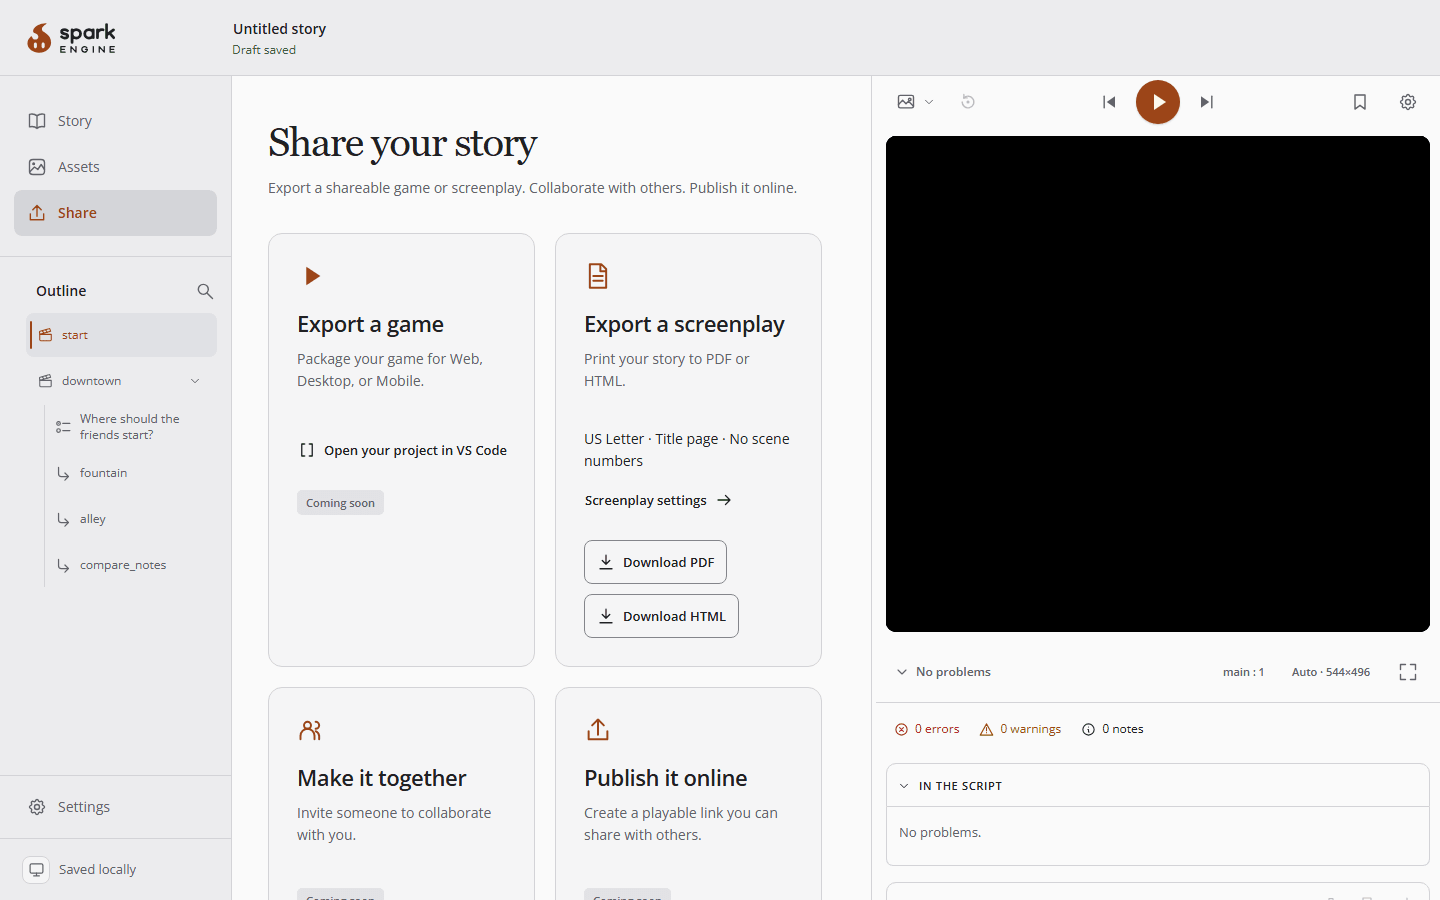
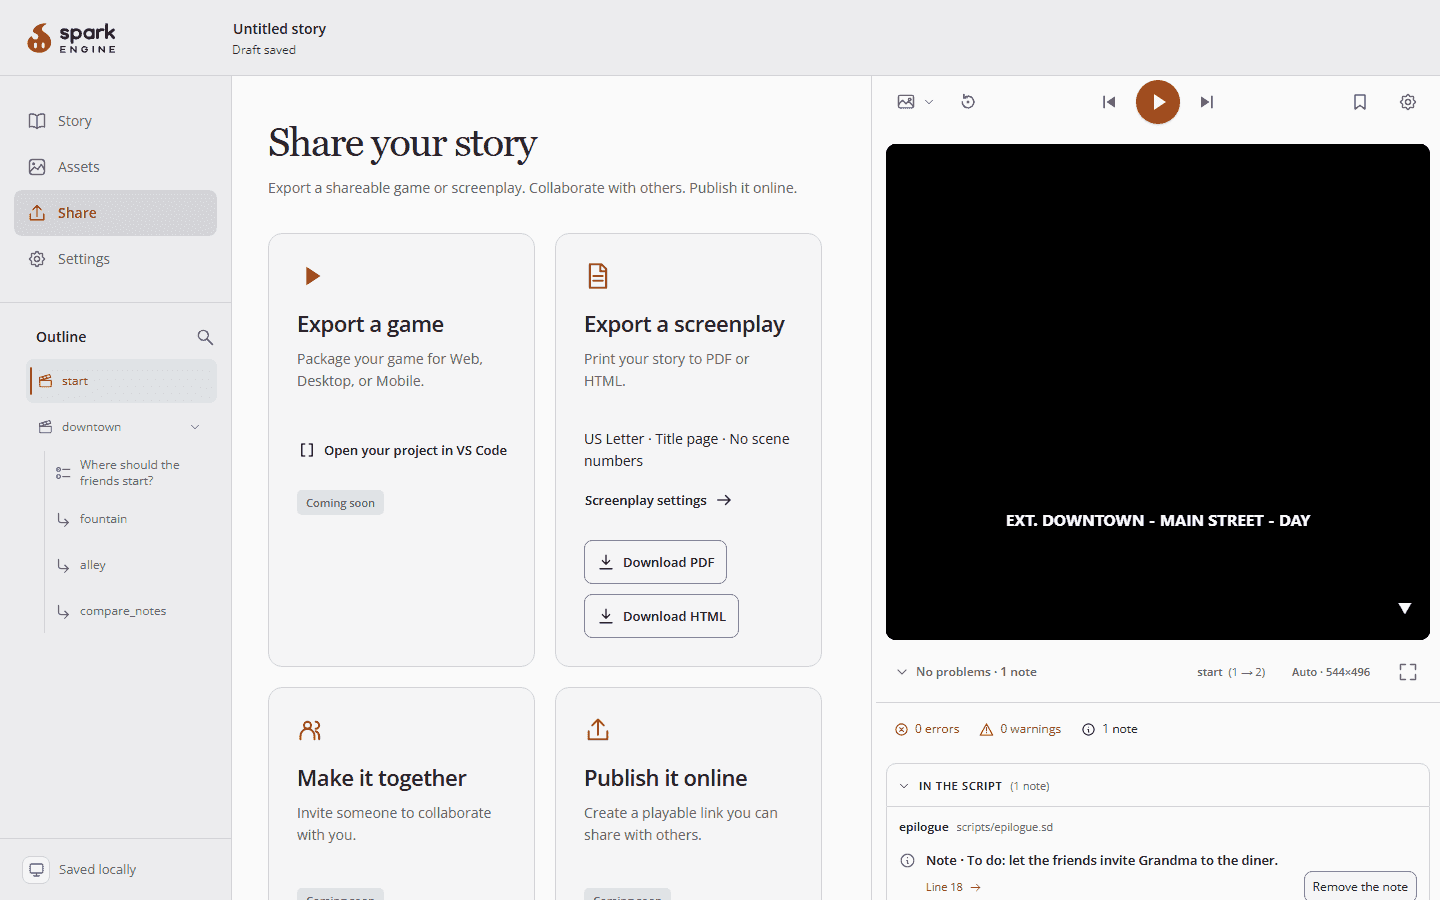
feat(web-editor): put Settings with Story, Assets and Share in the rail (I-2763)
Settings becomes the fourth tab of the rail's top group, under Share, at
every rail width, so the arrow keys move through the four as one group and
the separate Settings nav and its border at the rail's foot are gone. The
group's accessible name now reads "Story, Assets, Share and Settings". The
phone's bottom bar already held Settings and is unchanged.

The Writing tools menu's Sparkdown guide and Keyboard shortcuts rows lose
their descriptions and show their labels only; the three name rows keep
theirs.

The rendered tests, the architecture and design docs and the Web Editor
chapter of the guide follow, with its Story, Scripts, Share and Settings
pictures at 1440 re-shot.

diff --git a/impower-dev/test/components/assetsPrototypeGeometry.test.ts b/impower-dev/test/components/assetsPrototypeGeometry.test.ts
@@ -528,25 +528,29 @@ describe("The Assets page's and app frame's last differences from the Folio prot
     }
   });
 
-  it.each(THEMES)("at 1440 in %s the rail's Settings entry sits just above the footer, the same size as Story, Assets and Share", async (theme) => {
+  it.each(THEMES)("at 1440 in %s the rail's Settings entry is the fourth of the top group, the same size as Story, Assets and Share, and the outline meets the footer", async (theme) => {
     await setMedia((query) => query.includes("701px") || query.includes("1101px"));
     try {
       const measured = await inChromium(rail(false), { width: 1440, theme }, () => {
         const tabs = [...document.querySelectorAll<HTMLElement>('[role="tab"]')];
         const footer = document.querySelector("aside > div:last-child")!.getBoundingClientRect();
-        const settings = tabs[3]!.closest("nav")!.getBoundingClientRect();
+        const outline = document.querySelector("aside > [data-outline]")!.getBoundingClientRect();
         return {
           labels: tabs.map((tab) => tab.textContent!.trim().slice(0, tab.textContent!.trim().length / 2)),
           boxes: tabs.map((tab) => {
             const box = tab.getBoundingClientRect();
             return [box.x, box.width, box.height];
           }),
-          settingsMeetsFooter: settings.bottom === footer.top,
+          gaps: tabs.slice(1).map((tab, i) => tab.getBoundingClientRect().top - tabs[i]!.getBoundingClientRect().bottom),
+          navs: [...document.querySelectorAll("aside nav")].filter((nav) => nav.querySelector('[role="tab"]')).map((nav) => [nav.getAttribute("aria-label"), nav.querySelectorAll('[role="tab"]').length]),
+          outlineMeetsFooter: outline.bottom === footer.top,
         };
       });
       expect(measured.labels).toEqual(["Story", "Assets", "Share", "Settings"]);
       expect(new Set(measured.boxes.map((box) => box.join()))).toHaveProperty("size", 1);
-      expect(measured.settingsMeetsFooter).toBe(true);
+      expect(new Set(measured.gaps)).toHaveProperty("size", 1);
+      expect(measured.navs).toEqual([["Story, Assets, Share and Settings", 4]]);
+      expect(measured.outlineMeetsFooter).toBe(true);
     } finally {
       await setMedia(() => false);
     }

diff --git a/impower-dev/src/modules/spark-editor/components/desktop-shell/ShellRail.tsx b/impower-dev/src/modules/spark-editor/components/desktop-shell/ShellRail.tsx
@@ -31,12 +31,12 @@ export default function ShellRail() {
       class="flex h-full min-h-0 flex-col border-r border-edge bg-bg"
     >
       <nav
-        aria-label="Story, Assets and Share"
+        aria-label="Story, Assets, Share and Settings"
         class="flex-none border-b border-edge px-[14px] pt-[22px] pb-5 in-data-[layout=compact]:px-[10px] in-data-[layout=compact]:pt-4 group-data-[sidebar=collapsed]/sidebar:px-[5px] group-data-[sidebar=collapsed]/sidebar:pt-3.5"
       >
         <Tabs
           panel={SCREEN_PANEL_ID}
-          value={settings ? "" : pane}
+          value={settings ? SETTINGS_TAB : pane}
           onChange={onChange}
           variant="rail"
           vertical
@@ -52,29 +52,14 @@ export default function ShellRail() {
           <Tab value="share" icon={ShareIcon}>
             Share
           </Tab>
-        </Tabs>
-      </nav>
-      <div data-outline class="flex min-h-0 flex-1 flex-col">
-        {settings ? <SettingsIndex /> : <Outline />}
-      </div>
-      <nav
-        aria-label="Settings"
-        class="flex-none border-t border-edge px-[14px] py-2 in-data-[layout=compact]:px-[10px] group-data-[sidebar=collapsed]/sidebar:px-[5px]"
-      >
-        <Tabs
-          panel={SCREEN_PANEL_ID}
-          value={settings ? SETTINGS_TAB : ""}
-          onChange={onChange}
-          variant="rail"
-          vertical
-          iconLayout="beside"
-          indicator="none"
-        >
           <Tab value={SETTINGS_TAB} icon={CogIcon}>
             Settings
           </Tab>
         </Tabs>
       </nav>
+      <div data-outline class="flex min-h-0 flex-1 flex-col">
+        {settings ? <SettingsIndex /> : <Outline />}
+      </div>
       <div class="flex h-[62px] flex-none items-center border-t compact:h-[52px] border-edge px-[14px] group-data-[sidebar=collapsed]/sidebar:justify-center group-data-[sidebar=collapsed]/sidebar:px-0">
         <AppMenu />
       </div>

diff --git a/impower-dev/test/components/writingTools.test.ts b/impower-dev/test/components/writingTools.test.ts
@@ -165,8 +165,8 @@ describe("Writing tools menu", () => {
     await open();
     expect(panel()?.querySelector("h2")?.textContent).toBe("Writing tools");
     expect(rows().map((b) => b.textContent)).toEqual([
-      "Sparkdown guide A quick reference while you write.",
-      "Keyboard shortcuts For a connected keyboard.",
+      "Sparkdown guide",
+      "Keyboard shortcuts",
       "Find and replace",
     ]);
     expect(document.activeElement?.getAttribute("aria-label")).toBe(
@@ -215,8 +215,8 @@ describe("Writing tools menu", () => {
     calls.name = new Promise((r) => (resolve = r));
     await open();
     expect(rows().map((b) => b.textContent)).toEqual([
-      "Sparkdown guide A quick reference while you write.",
-      "Keyboard shortcuts For a connected keyboard.",
+      "Sparkdown guide",
+      "Keyboard shortcuts",
       "Find and replace",
     ]);
     await act(async () => resolve(null));

diff --git a/impower-dev/test/components/desktopShellPreview.test.ts b/impower-dev/test/components/desktopShellPreview.test.ts
@@ -144,6 +144,21 @@ describe("the desktop shell's docked preview", () => {
     expect(railTab("Settings").getAttribute("aria-selected")).toBe("false");
     expect(host.querySelector("[data-player]")).toBe(player);
 
+    const arrow = async (key: string) =>
+      act(async () => {
+        document.activeElement!.dispatchEvent(
+          new KeyboardEvent("keydown", { key, bubbles: true, cancelable: true }),
+        );
+        await new Promise((resolve) => setTimeout(resolve, 0));
+      });
+    railTab("Share").focus();
+    await arrow("ArrowDown");
+    expect(document.activeElement).toBe(railTab("Settings"));
+    await arrow("ArrowDown");
+    expect(document.activeElement).toBe(railTab("Story"));
+    await arrow("ArrowUp");
+    expect(document.activeElement).toBe(railTab("Settings"));
+
     expect(players.mounted).toBe(1);
     expect(players.unmounted).toBe(0);
   });

diff --git a/impower-dev/src/modules/spark-editor/components/writing-tools/WritingToolsMenu.tsx b/impower-dev/src/modules/spark-editor/components/writing-tools/WritingToolsMenu.tsx
@@ -137,14 +137,12 @@ export default function WritingToolsMenu({
       <Row
         icon={<BookIcon />}
         label="Sparkdown guide"
-        description="A quick reference while you write."
         view="guide"
         onClick={() => onView("guide")}
       />
       <Row
         icon={<KeyboardIcon />}
         label="Keyboard shortcuts"
-        description="For a connected keyboard."
         view="shortcuts"
         onClick={() => onView("shortcuts")}
       />

diff --git a/packages/sparkdown/docs/guide/WebEditor.md b/packages/sparkdown/docs/guide/WebEditor.md
@@ -10,17 +10,16 @@ script from any of them:
 - **Share**: exporting your game and your screenplay.
 - **Settings**: how the editor looks and behaves, and your project's own preferences.
 
-Story, Assets and Share are in the rail down the left side on a computer, and in the
-bar along the bottom on a phone; Scripts opens from Story. Settings is at the foot of
-the rail, just above the save status, and is the fourth tab of the bar on a phone. To
-leave Settings, pick Story, Assets or Share.
+Story, Assets, Share and Settings are in the rail down the left side on a computer, and
+in the bar along the bottom on a phone; Scripts opens from Story. To leave Settings,
+pick Story, Assets or Share.
 
 The pictures below show a small sample project at two sizes: a computer screen 1440
 pixels wide and a phone 430 pixels wide.
 
 ## Story
 
-![The Story page on a computer: the rail with Story, Assets and Share on the left, the Outline under them and Settings at its foot, the script in the middle, and the game preview on the right with the Problems panel open under it](./images/web-editor/story-1440.png)
+![The Story page on a computer: the rail with Story, Assets, Share and Settings on the left and the Outline under them, the script in the middle, and the game preview on the right with the Problems panel open under it](./images/web-editor/story-1440.png)
 
 ![The Story page on a phone: the project name and a menu at the top, a Your game strip with a Play button, the script, an Edit button, and the Story, Assets, Share and Settings tabs at the bottom](./images/web-editor/story-430.png)
 
@@ -105,7 +104,7 @@ extension. Working together and publishing online are on their way too.
 
 ## Settings
 
-![The Settings page on a computer: the list of sections down the left, from Appearance to Save & sync, Settings selected at the foot of the rail, and the Appearance section with its nine themes](./images/web-editor/settings-1440.png)
+![The Settings page on a computer: the list of sections down the left, from Appearance to Save & sync, Settings selected in the rail under Share, and the Appearance section with its nine themes](./images/web-editor/settings-1440.png)
 
 ![The Appearance section of Settings on a phone, with the nine themes one under another and the Settings tab selected at the bottom](./images/web-editor/settings-430.png)
 

diff --git a/impower-dev/docs/design/README.md b/impower-dev/docs/design/README.md
@@ -104,6 +104,7 @@ The editor follows the prototype except where the table below says otherwise. Ea
 | Search and replace rail | desktop, tablet | Search rail buttons and result rows are 44px, and match marks use the accent wash | #1004 |
 | Change color view | desktop, tablet | Change color opened from a swatch shows a Back button | #1005 |
 | Writing tools menu | desktop, tablet, phone | Go to definition is disabled on a dialogue cue in Writing tools | #1006 |
+| Writing tools menu | desktop, tablet, phone | The Sparkdown guide and Keyboard shortcuts rows show their label with no description | #2763 |
 | Outline rail | desktop, tablet | Outline row labels are drawn in full ink instead of muted | #1008 |
 | Assets inspector, Variants tester on touch | tablet, phone | The variant wheel sheet dims the picture and spans the window | #1032 |
 | Assets Audio tab and inspector player | desktop, tablet, phone | Sound rows are 63px instead of 60px; Restart and Loop are 44px instead of 40px | #1029, #2162 |
@@ -126,4 +127,4 @@ The editor follows the prototype except where the table below says otherwise. Ea
 | Asset inspector (Variants) | phone, tablet | The inspector's Face picker is 44px tall under touch | #1025 |
 | Assets page tiles | desktop, tablet | Hovering a tile with a mouse shows an empty round select circle in its top-left corner | #1025 |
 | Assets inspector, Used in | desktop, tablet, phone | The unused hint for a single-file picture stops after the first sentence | #1025, #2544 |
-| Shell rail, bottom navigation, app menu, Settings page | desktop, tablet, phone | Settings is a navigation entry at the foot of the rail, above the save status, and the fourth bottom navigation tab, not an app menu item; the Settings page has no Back to story and its index has no heading | #2723 |
+| Shell rail, bottom navigation, app menu, Settings page | desktop, tablet, phone | Settings is the fourth navigation entry of the rail, under Share, and the fourth bottom navigation tab, not an app menu item; the Settings page has no Back to story and its index has no heading | #2723, #2763 |

diff --git a/impower-dev/docs/design/glossary.md b/impower-dev/docs/design/glossary.md
@@ -30,7 +30,7 @@ The prototype's own notes state these further renames. The live markup is checke
 
 ## App menu
 
-The app menu is a dialog. It opens from the sidebar footer on desktop and tablet and from the top-bar menu button on phones. Selecting Settings goes to the Settings page; the other items show a toast (see Toasts). The editor has no Settings item in the app menu: Settings is a navigation entry at the foot of the rail and the fourth bottom navigation tab.
+The app menu is a dialog. It opens from the sidebar footer on desktop and tablet and from the top-bar menu button on phones. Selecting Settings goes to the Settings page; the other items show a toast (see Toasts). The editor has no Settings item in the app menu: Settings is the fourth navigation entry of the rail, under Story, Assets and Share, and the fourth bottom navigation tab.
 
 | String | Role | Source | Note |
 | --- | --- | --- | --- |
@@ -215,9 +215,9 @@ The menu opens in place of the keyboard on phones and above the bar on desktop. 
 | `picture in your assets` | kind in that description | folio-tools.js:15 |  |
 | `sound in your assets` | kind in that description | folio-tools.js:16 |  |
 | `Sparkdown guide` | row title and view title | folio-tools.js:206, folio-tools.js:249 |  |
-| `A quick reference while you write.` | row description | folio-tools.js:249 |  |
+| `A quick reference while you write.` | row description | folio-tools.js:249 | Not drawn: the row shows its label only |
 | `Keyboard shortcuts` | row title and view title | folio-tools.js:207, folio-tools.js:250 |  |
-| `For a connected keyboard.` | row description | folio-tools.js:250 |  |
+| `For a connected keyboard.` | row description | folio-tools.js:250 | Not drawn: the row shows its label only |
 | `Search` | view title | folio-tools.js:205 |  |
 | `References to ` | view title prefix, followed by the name | folio-tools.js:208 |  |
 | `Rename ` | view title prefix, followed by the name | folio-tools.js:209, folio-tools.js:243 |  |

diff --git a/impower-dev/docs/architecture.md b/impower-dev/docs/architecture.md
@@ -84,8 +84,8 @@ agent or a second breakpoint.
 
 ### The rail, the bars and the dock
 
-- **The rail** (`desktop-shell/ShellRail.tsx`): links to Story, Assets and Share, the
-  Settings index under them on the Settings page, the Settings link at its foot, and under it the app menu (`AppMenu.tsx`), labelled with the save status.
+- **The rail** (`desktop-shell/ShellRail.tsx`): links to Story, Assets, Share and Settings, the
+  Settings index under them on the Settings page, and at its foot the app menu (`AppMenu.tsx`), labelled with the save status.
   On phones `BottomNavigation.tsx` holds Story, Assets, Share and Settings as tabs.
   Its width is stored in the workspace (`shell.railWidth`, `shell.railCompactWidth`)
   and bounded by `workspace/railWidths.ts`.
